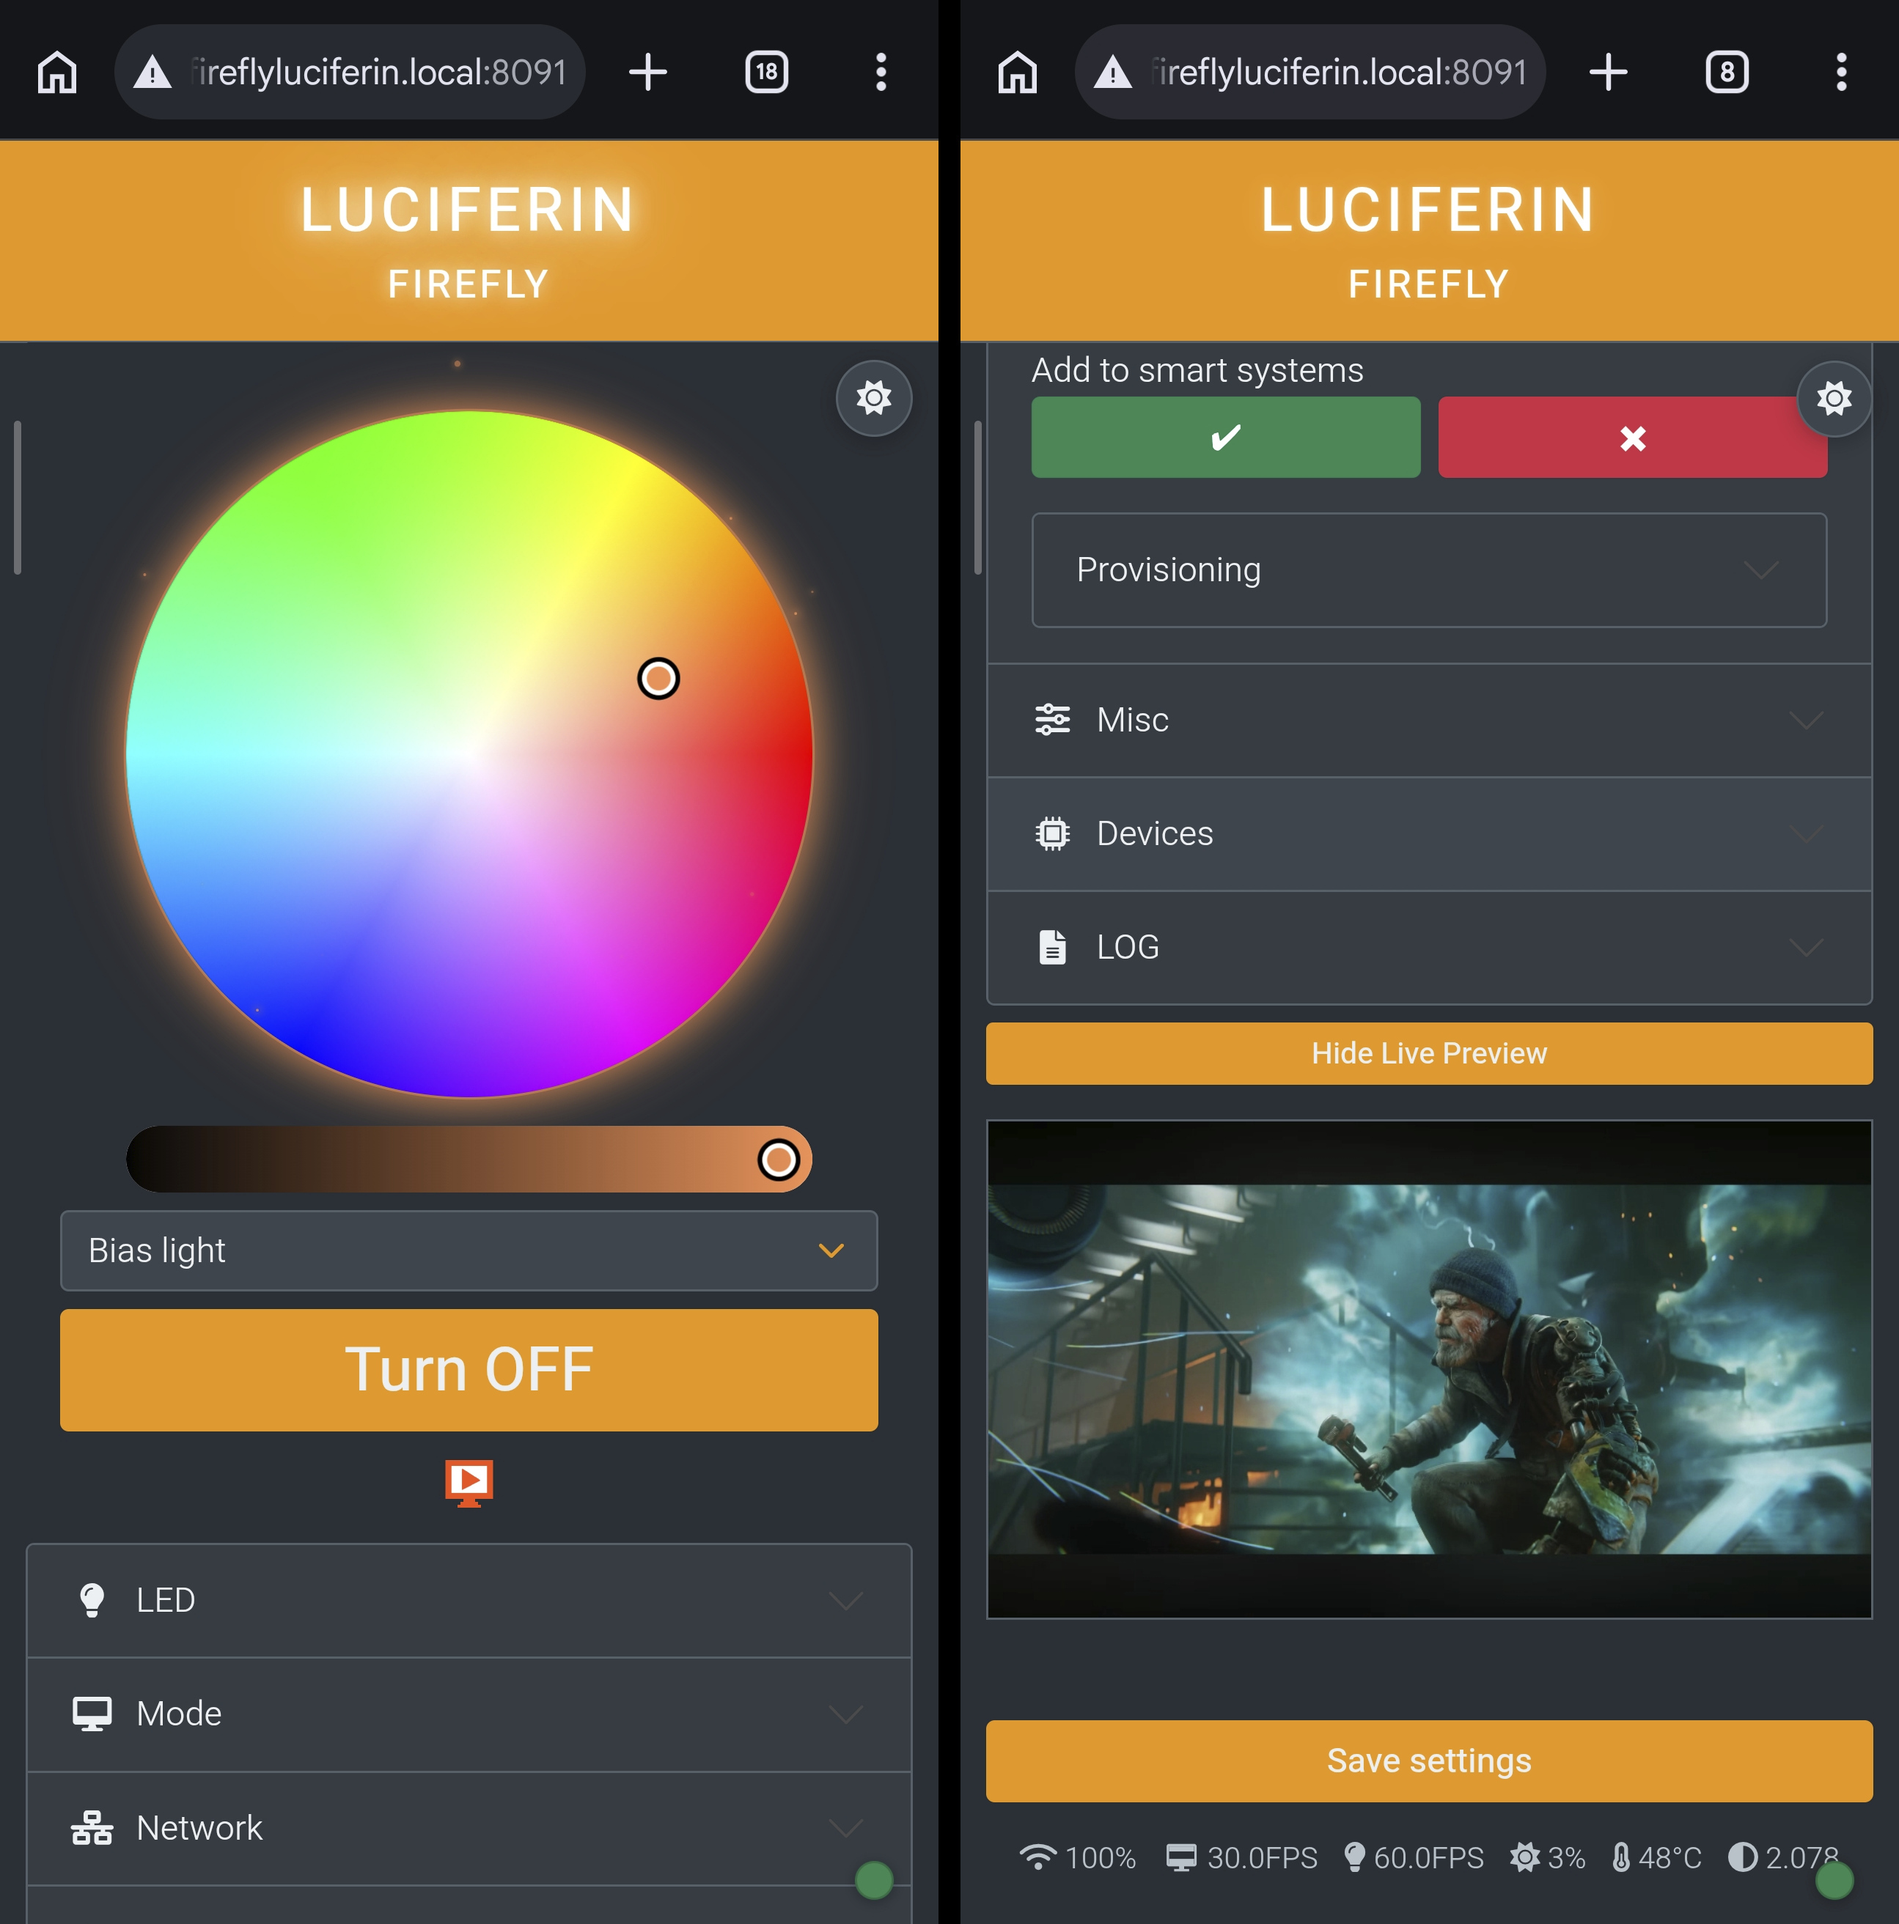
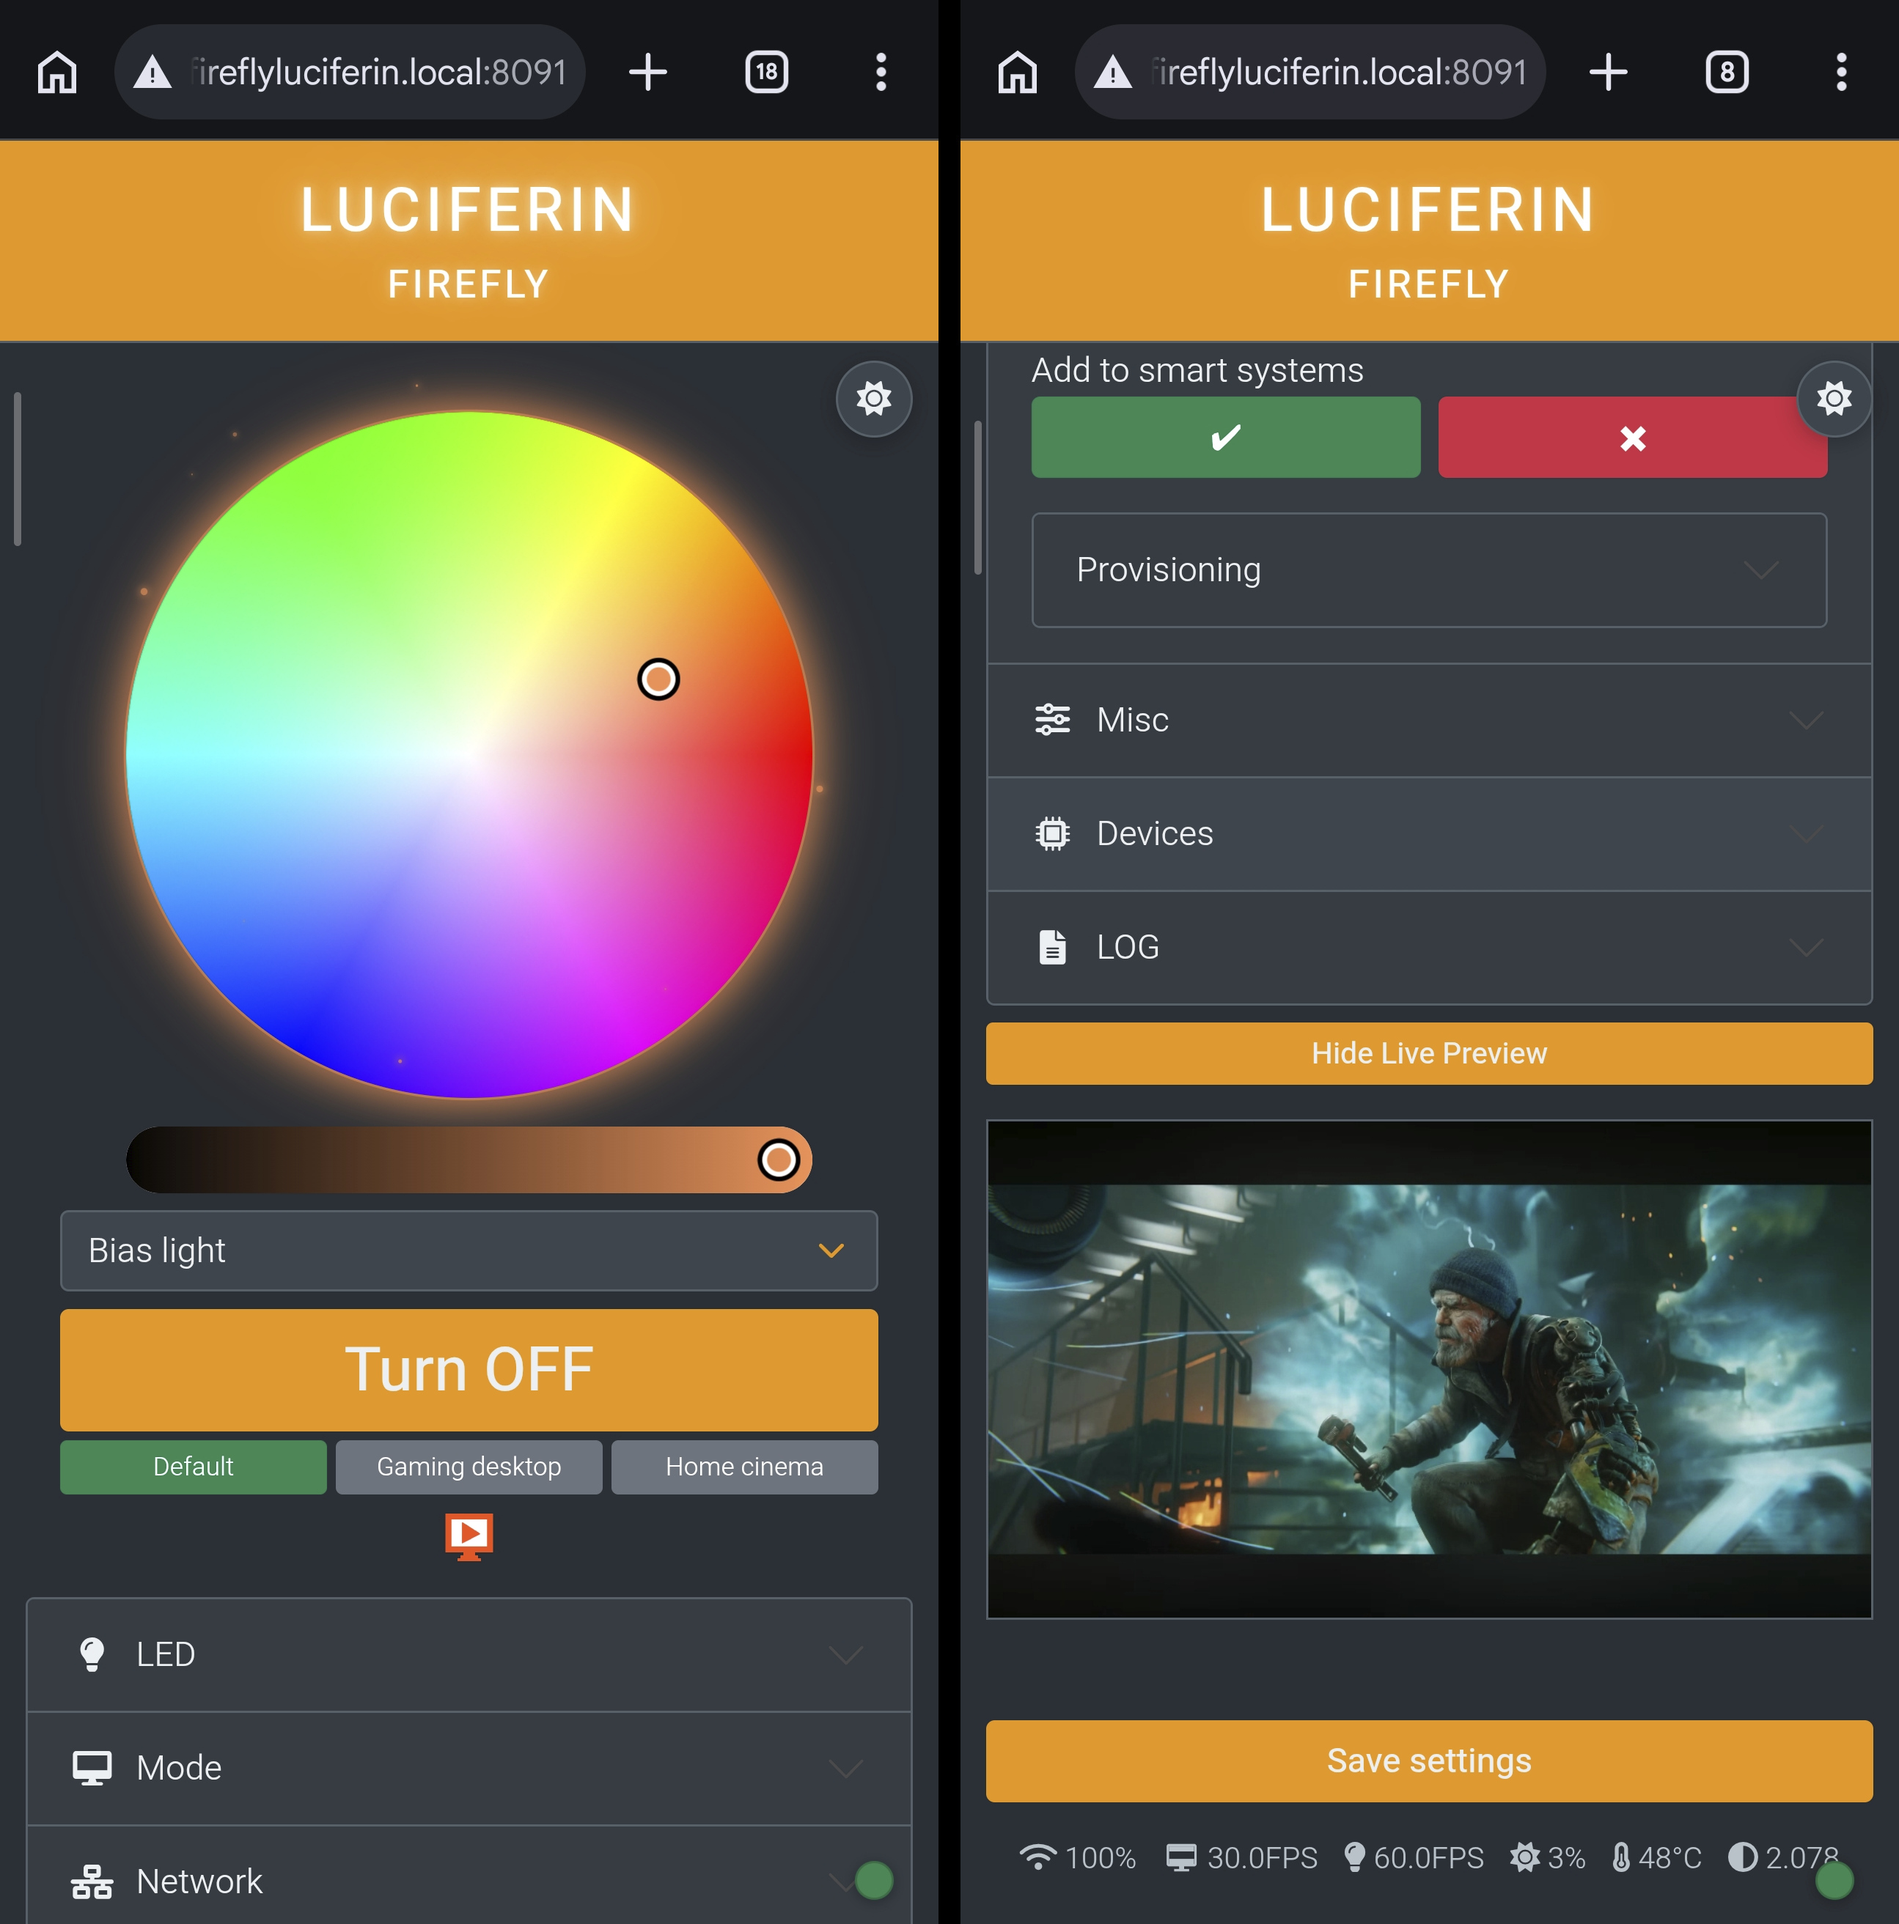
web interface profile selection tool

Changed region(s): [[0.0309, 0.7497, 0.4633, 0.8122], [0.0309, 0.8122, 0.1236, 0.9996], [0.1853, 0.0937, 0.3398, 0.125]]

diff --git a/src/main/resources/org/dpsoftware/network/web/set-config-profiles.js b/src/main/resources/org/dpsoftware/network/web/set-config-profiles.js
@@ -3,14 +3,42 @@ import {fetchJson, postResponse} from './set-config-api.js';
 import {collectPayload} from './set-config-core.js';
 import {showToast} from './set-config-ui.js';
 
-// Renders the profile list with activate buttons and (for non-default, non-active profiles) a remove button, marking the active profile.
+// Renders compact shortcuts below the LED toggle, keeping equal widths across rows.
+function renderProfileButtons(profiles, activeProfile) {
+    var container = document.getElementById('profileButtons');
+    if (!container) {
+        return;
+    }
+    container.replaceChildren();
+    if (profiles.length === 1 && profiles[0] === 'Default') {
+        return;
+    }
+    container.style.setProperty('--profile-columns', Math.min(profiles.length, 4) || 1);
+    profiles.forEach(function (name) {
+        var button = document.createElement('button');
+        button.type = 'button';
+        button.className = 'btn btn-sm profile-button';
+        button.textContent = name;
+        button.title = name;
+        button.setAttribute('aria-pressed', String(name === activeProfile));
+        button.addEventListener('click', function () {
+            if (name !== activeProfile) {
+                activateProfile(name);
+            }
+        });
+        container.appendChild(button);
+    });
+}
+
+// Renders the shortcuts and profile management list, marking the active profile.
 export function renderProfiles(data) {
+    var profiles = data.profiles || [];
+    var activeProfile = data.activeProfile || '';
+    renderProfileButtons(profiles, activeProfile);
     var container = document.getElementById('profilesList');
     if (!container) {
         return;
     }
-    var profiles = data.profiles || [];
-    var activeProfile = data.activeProfile || '';
     if (profiles.length === 0) {
         container.innerHTML = '<div class="text-muted">No profiles available</div>';
         return;

diff --git a/src/main/resources/org/dpsoftware/network/web/set-config.css b/src/main/resources/org/dpsoftware/network/web/set-config.css
@@ -599,6 +599,49 @@ body.server-down > :not(#offlineOverlay) {
     border-color: darkorange !important;
 }
 
+.profile-buttons {
+    display: grid;
+    grid-template-columns: repeat(var(--profile-columns, 1), minmax(0, 1fr));
+    gap: 0.25rem;
+}
+
+.profile-buttons:empty {
+    display: none;
+}
+
+.profile-buttons .profile-button {
+    min-width: 0;
+    padding: 0.2rem 0.375rem;
+    overflow: hidden;
+    text-overflow: ellipsis;
+    white-space: nowrap;
+    font-size: 0.75rem;
+    line-height: 1.4;
+    color: #fff;
+    background-color: #6c757d;
+    border: 1px solid #6c757d;
+}
+
+.profile-buttons .profile-button:hover {
+    background-color: #5c636a;
+    border-color: #5c636a;
+}
+
+.profile-buttons .profile-button[aria-pressed="true"] {
+    background-color: #198754;
+    border-color: #198754;
+}
+
+.profile-buttons .profile-button[aria-pressed="true"]:hover {
+    background-color: #157347;
+    border-color: #157347;
+}
+
+.profile-buttons .profile-button:focus-visible {
+    outline: 2px solid #f59a20;
+    outline-offset: 2px;
+}
+
 /* Live preview button, base (off) state: light grey. The .active class (added by
    JS while the preview is running) turns it green, the :hover states darken a bit. */
 #showLivePreview,

diff --git a/src/main/resources/org/dpsoftware/network/web/set-config-app.js b/src/main/resources/org/dpsoftware/network/web/set-config-app.js
@@ -1,7 +1,7 @@
 // Entry point of the LUCIFERIN web configuration page: wires together the form, device picker, profiles, live preview and status polling
 // modules, and handles loading/saving the configuration against the ConfigServer HTTP endpoints.
 import {state} from './set-config-state.js';
-import {fetchJson, notifyComboChange, uploadCubeLut, removeCubeLut} from './set-config-api.js';
+import {fetchJson, notifyComboChange, removeCubeLut, uploadCubeLut} from './set-config-api.js';
 import {buildForm, collectPayload, fillForm} from './set-config-core.js';
 import {
     applyAutoOutputDevice,
@@ -650,11 +650,6 @@ $(function () {
         document.getElementById('improvDeviceName').value = cfg.outputDevice || '';
         syncMqttDiscoveryButtons();
         applyAutoOutputDevice();
-        var profile = cfg && cfg.activeProfile;
-        var profileEl = document.getElementById('activeProfile');
-        if (profileEl) {
-            profileEl.textContent = profile ? ((state.fieldLabels['web.profilePrefix'] || 'Profile:') + ' ' + profile) : '';
-        }
         syncDeviceFromPrefs();
         return fetchJson('listProfiles');
     }).then(function (profilesData) {

diff --git a/src/main/resources/org/dpsoftware/network/web/set-config.html b/src/main/resources/org/dpsoftware/network/web/set-config.html
@@ -119,7 +119,7 @@
                     </div>
                     <div class="form-group mt-2"><select id="effectSelect" class="form-select w-100"></select></div>
                     <div class="form-group mt-2"><button id="toggleLED" type="button" class="btn w-100"></button></div>
-                    <div id="activeProfile" class="text-center text-muted small mt-1"></div>
+                    <div class="profile-buttons mt-1" id="profileButtons"></div>
                 </div>
             </div>
         </div>
